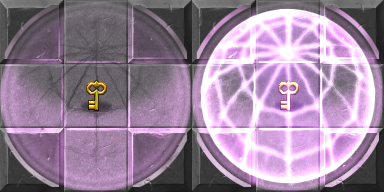
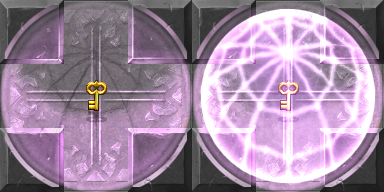
MOV New key area

diff --git a/src/DungeonMap.cpp b/src/DungeonMap.cpp
@@ -1013,11 +1013,7 @@ Vector2D DungeonMap::generateKeyRoom()
     if (rand() % 2 == 0) initPattern(PatternSmallCircle);
     else initPattern(PatternSmallStar);
   }
-  map[x0][y0] = MAP_TILE_KEY;
-  map[x0 -1][y0] = MAP_TILE_KEY;
-  map[x0 + 1][y0] = MAP_TILE_KEY;
-  map[x0][y0 - 1] = MAP_TILE_KEY;
-  map[x0][y0 + 1] = MAP_TILE_KEY;
+  generateCarpet(x0 - 1, y0 - 1, 3, 3, MAP_CARPET);
   generateRandomTiles();
 
   return (Vector2D(x0 * TILE_WIDTH + TILE_WIDTH / 2, y0 * TILE_HEIGHT + TILE_HEIGHT / 2));

diff --git a/src/DungeonMap.h b/src/DungeonMap.h
@@ -39,7 +39,6 @@ const int MAP_NORMAL_FLOOR    =   8;
 const int MAP_NB_FLOORS       =   10;
 const int MAP_TEMPLE          =   MAP_NB_FLOORS * 24;
 const int MAP_CARPET          =   MAP_TEMPLE + 8;
-const int MAP_TILE_KEY        =   MAP_TEMPLE + 17;
 
 const int MAP_WALL_BEGIN    =   (MAP_NB_FLOORS + 3) * 24;
 
